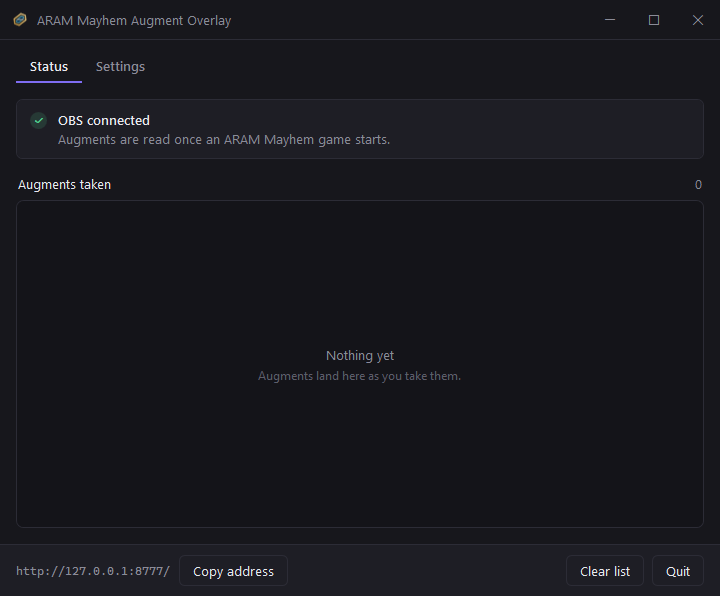
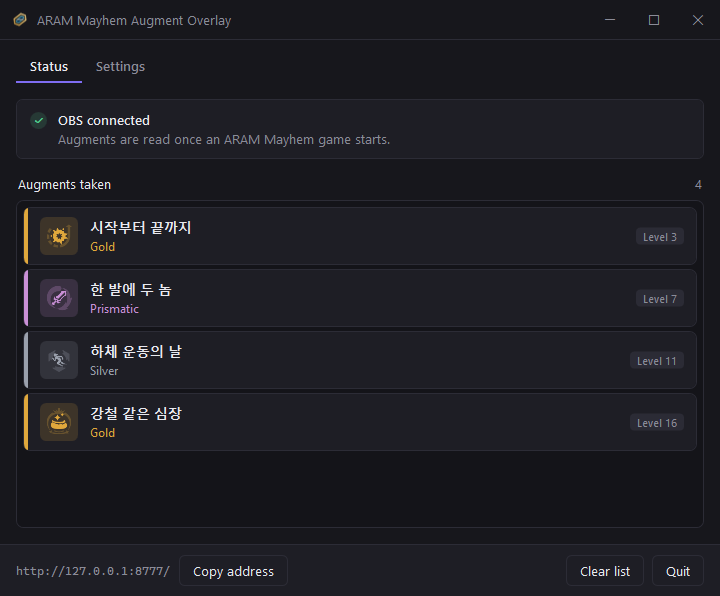
Shoot the widget in all three themes, and the app with a list in it
The status screenshots went in empty, which documents the one state the tab is
not about. --sample fills the list from the augment data the widget already
draws from -- four picks, one per rarity -- and touches nothing else, so the
status line still says what it truly sees. That state is real: it is what a
finished game leaves behind.

The widget shots come out of OBS rather than off the desktop. A screenshot of a
screen cannot show a widget whose whole point is having no background, so
SelfTest gains --widget-shot: it finds the browser source by the URL it is
showing, asks OBS for a PNG, and writes those bytes out without decoding them.
Round-tripping through this tool's BGRA frames would flatten the alpha the
picture exists to show.

Taking them found a real fault. The tray theme's chips are 84 wide, but a flex
item will not shrink below its own content, so a long augment name grew its
chip and the tray came out wider than the size it had just reported -- the last
chip sat outside the OBS source and was simply not there. A slot that exists to
hold the box steady has to be one width, so it is fixed now rather than merely
starting there.

Left alone: the hero image and the animation still show the old palette. Both
need a game running, and the augment screen in them cannot be re-staged from a
recording.

Claude-Session: https://claude.ai/code/session_013PVrT3YZ7xZCw3M8wcJjkx

diff --git a/src/AramOverlay.Core/Assets/widget.html b/src/AramOverlay.Core/Assets/widget.html
@@ -91,8 +91,13 @@
                           background: rgba(8, 13, 17, .78);
                           border: 1px solid rgba(227, 205, 167, .28);
                           border-radius: 4px; box-shadow: 0 6px 18px rgba(0,0,0,.45); }
+  /* Fixed at 84, not merely started there: a flex item will not shrink below
+     its content, so a long name grew its chip and the tray came out wider than
+     the size it had reported -- the last chip then sat outside the OBS source.
+     A slot that holds the box steady has to be a slot of one width. */
   [data-theme="b"] .chip {
-    display: flex; flex-direction: column; align-items: center; gap: 6px; width: 84px;
+    display: flex; flex-direction: column; align-items: center; gap: 6px;
+    flex: 0 0 84px; width: 84px; min-width: 0; overflow: hidden;
     animation: rise-in .45s cubic-bezier(.2,.8,.3,1) both;
   }
   [data-theme="b"] .sq {

diff --git a/README.ja.md b/README.ja.md
@@ -48,11 +48,11 @@
 
 <table>
 <tr>
-<td width="40%"><img src="docs/images/widget.png" alt="ウィジェット単体"></td>
+<td width="40%"><img src="docs/images/widget.d.png" alt="ウィジェット単体"></td>
 <td><img src="docs/images/overlay.gif" alt="積み上がっていくオーグメント"></td>
 </tr>
 <tr>
-<td align="center"><sub>シルバー · ゴールド · プリズムを色分け</sub></td>
+<td align="center"><sub>シルバー · ゴールド · プリズムを色分け</sub><br><sub>テーマ 3 種、配信中に切り替え可能</sub></td>
 <td align="center"><sub>選ぶと数秒でリストに加わります</sub></td>
 </tr>
 </table>
@@ -127,6 +127,12 @@ OBS を起動し直し、**状態**タブの **再試行** を押します。接
 | OBS | websocket ポート · ゲームキャプチャソース名 · パスワード（空欄なら OBS の設定から自動取得） |
 | ウィジェットのテーマ | HUD トレイ(横) · 1 行(最小) · ゲームパレット(縦)。変更は即座に反映され、ブラウザソースの更新は不要です |
 | オーバーレイ | ウィジェットのポート · 表示行数 · 最大幅 |
+
+<img src="docs/images/widget.b.png" alt="HUD トレイ" width="392"><br><sub>HUD トレイ</sub>
+
+<img src="docs/images/widget.c.png" alt="1 行" width="680"><br><sub>1 行</sub>
+
+<img src="docs/images/widget.d.png" alt="ゲームパレット" width="284"><br><sub>ゲームパレット</sub>
 
 コマンドライン引数も使えます。`--stop` は実行中のオーバーレイを正常終了させ（トレイアイコンも
 片付けます）、`--widget-port` などは設定より優先されます。

diff --git a/README.ko.md b/README.ko.md
@@ -48,11 +48,11 @@
 
 <table>
 <tr>
-<td width="40%"><img src="docs/images/widget.png" alt="위젯을 따로 본 모습"></td>
+<td width="40%"><img src="docs/images/widget.d.png" alt="위젯을 따로 본 모습"></td>
 <td><img src="docs/images/overlay.gif" alt="증강이 쌓이는 모습"></td>
 </tr>
 <tr>
-<td align="center"><sub>실버 · 골드 · 프리즘을 색으로 구분</sub></td>
+<td align="center"><sub>실버 · 골드 · 프리즘을 색으로 구분</sub><br><sub>테마 3종, 방송 중에 바로 전환</sub></td>
 <td align="center"><sub>증강을 고르면 몇 초 안에 쌓입니다</sub></td>
 </tr>
 </table>
@@ -122,6 +122,12 @@ OBS를 다시 실행한 뒤 상태 탭의 **다시 시도**를 누릅니다. 연
 | OBS | websocket 포트 · 게임 캡처 소스 이름 · 비밀번호 (비우면 OBS 설정에서 자동) |
 | 위젯 테마 | HUD 트레이(가로) · 한 줄(최소) · 게임 팔레트(세로). 바꾸면 브라우저 소스 새로고침 없이 바로 반영됩니다 |
 | 오버레이 | 위젯 포트 · 표시 행 수 · 최대 폭 |
+
+<img src="docs/images/widget.b.png" alt="HUD 트레이" width="392"><br><sub>HUD 트레이</sub>
+
+<img src="docs/images/widget.c.png" alt="한 줄" width="680"><br><sub>한 줄</sub>
+
+<img src="docs/images/widget.d.png" alt="게임 팔레트" width="284"><br><sub>게임 팔레트</sub>
 
 명령줄 인자도 받습니다. `--stop` 은 실행 중인 오버레이를 정상 종료하고(트레이 아이콘까지 정리),
 `--widget-port` 등은 설정보다 우선합니다.

diff --git a/README.md b/README.md
@@ -48,11 +48,11 @@ It focuses on:
 
 <table>
 <tr>
-<td width="40%"><img src="docs/images/widget.png" alt="The widget on its own"></td>
+<td width="40%"><img src="docs/images/widget.d.png" alt="The widget on its own"></td>
 <td><img src="docs/images/overlay.gif" alt="Augments stacking up"></td>
 </tr>
 <tr>
-<td align="center"><sub>Silver · gold · prismatic told apart by colour</sub></td>
+<td align="center"><sub>Silver · gold · prismatic told apart by colour</sub><br><sub>Three themes, switched while live</sub></td>
 <td align="center"><sub>Each pick joins the list within seconds</sub></td>
 </tr>
 </table>
@@ -129,6 +129,12 @@ is why a restart is needed.
 | OBS | websocket port · game capture source name · password (blank reads it from the OBS config) |
 | Widget theme | HUD tray (grows sideways) · one strip (smallest) · game palette (vertical). Changes on air at once, with no browser-source refresh |
 | Overlay | widget port · rows shown · maximum width |
+
+<img src="docs/images/widget.b.png" alt="HUD tray" width="392"><br><sub>HUD tray</sub>
+
+<img src="docs/images/widget.c.png" alt="One strip" width="680"><br><sub>One strip</sub>
+
+<img src="docs/images/widget.d.png" alt="Game palette" width="284"><br><sub>Game palette</sub>
 
 Command-line flags work too. `--stop` shuts a running overlay down cleanly (tray icon included),
 and flags such as `--widget-port` override the saved settings.

diff --git a/README.zh-CN.md b/README.zh-CN.md
@@ -48,11 +48,11 @@
 
 <table>
 <tr>
-<td width="40%"><img src="docs/images/widget.png" alt="单独看挂件"></td>
+<td width="40%"><img src="docs/images/widget.d.png" alt="单独看挂件"></td>
 <td><img src="docs/images/overlay.gif" alt="强化符文不断累积"></td>
 </tr>
 <tr>
-<td align="center"><sub>白银 · 黄金 · 棱彩用颜色区分</sub></td>
+<td align="center"><sub>白银 · 黄金 · 棱彩用颜色区分</sub><br><sub>三种主题，直播中即时切换</sub></td>
 <td align="center"><sub>获得后几秒内加入列表</sub></td>
 </tr>
 </table>
@@ -124,6 +124,12 @@
 | OBS | websocket 端口 · 游戏采集源名称 · 密码（留空则从 OBS 配置自动读取） |
 | 挂件主题 | HUD 托盘（横向） · 单行条（最小） · 游戏配色（纵向）。修改立即生效，无需刷新浏览器源 |
 | 覆盖层 | 挂件端口 · 显示行数 · 最大宽度 |
+
+<img src="docs/images/widget.b.png" alt="HUD 托盘" width="392"><br><sub>HUD 托盘</sub>
+
+<img src="docs/images/widget.c.png" alt="单行条" width="680"><br><sub>单行条</sub>
+
+<img src="docs/images/widget.d.png" alt="游戏配色" width="284"><br><sub>游戏配色</sub>
 
 也支持命令行参数。`--stop` 会让正在运行的覆盖层正常退出（同时清理托盘图标），`--widget-port`
 之类的参数优先于已保存的设置。
